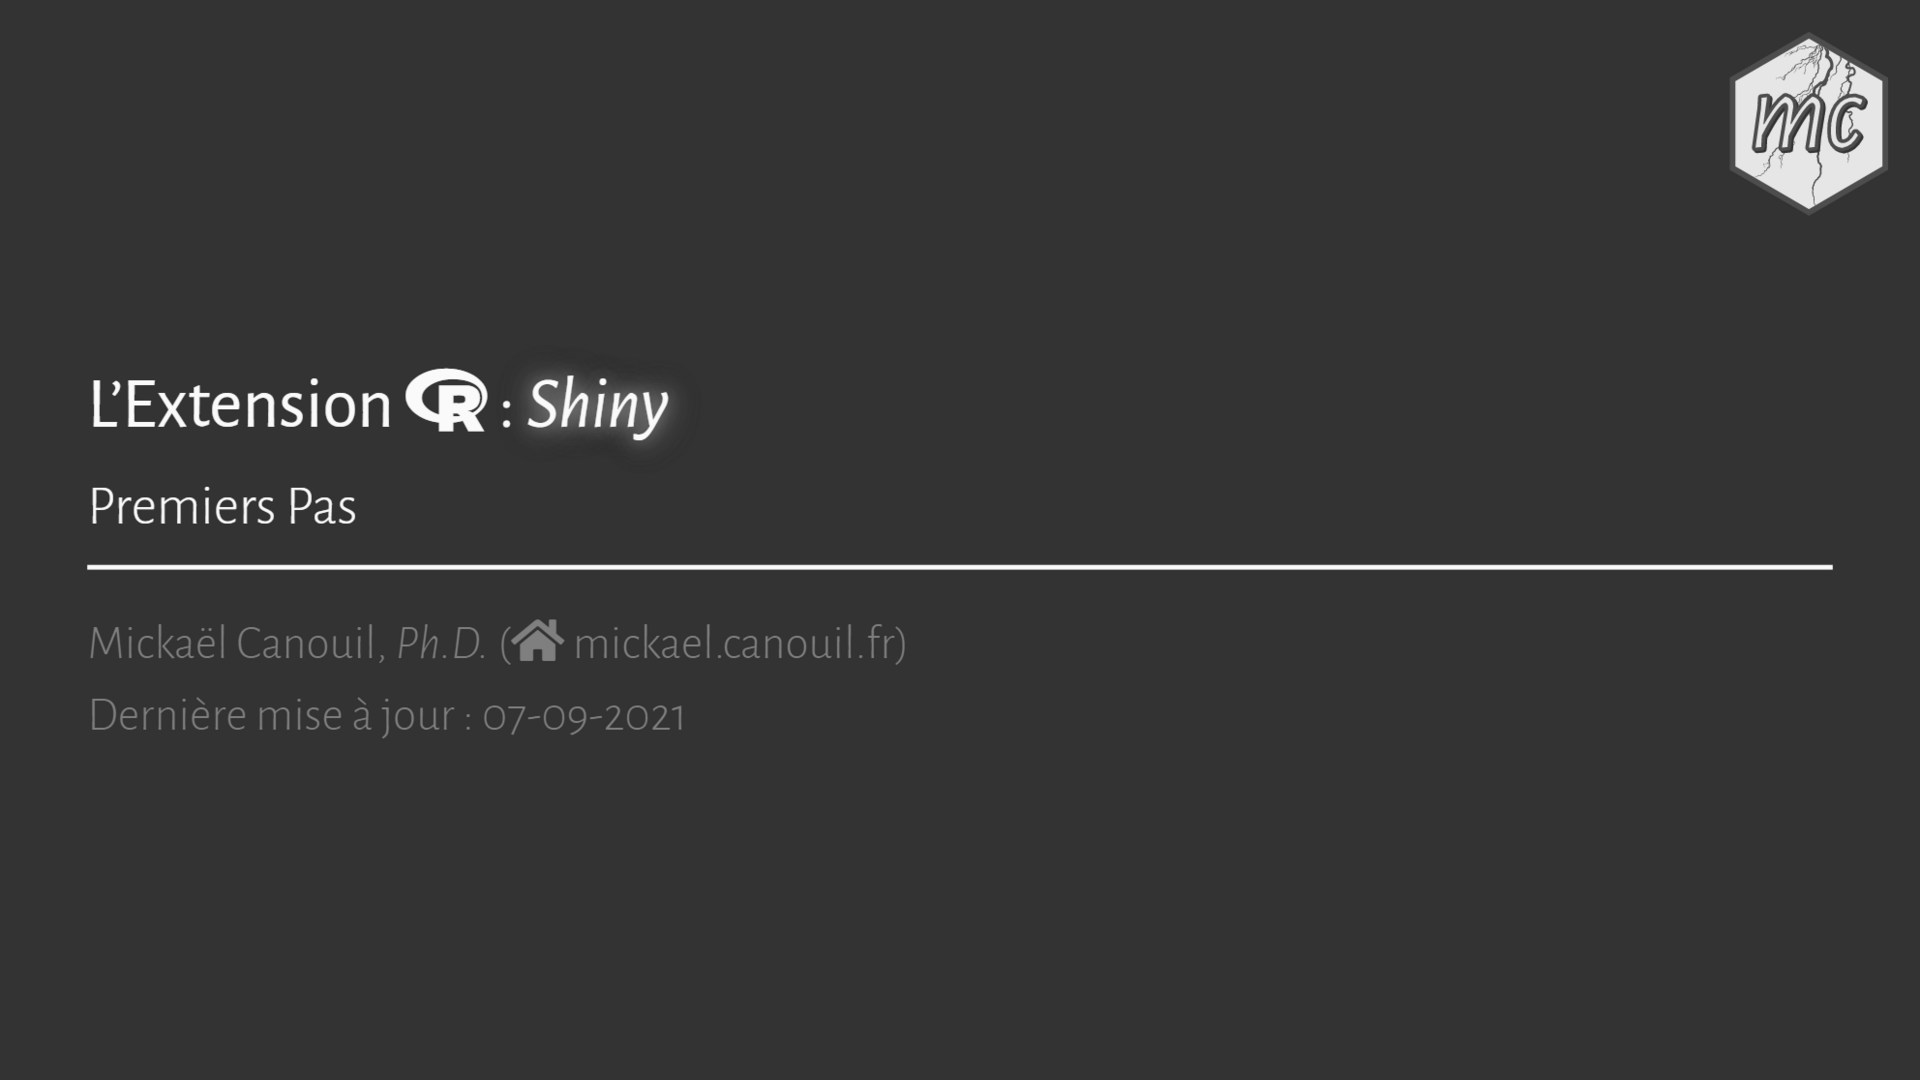
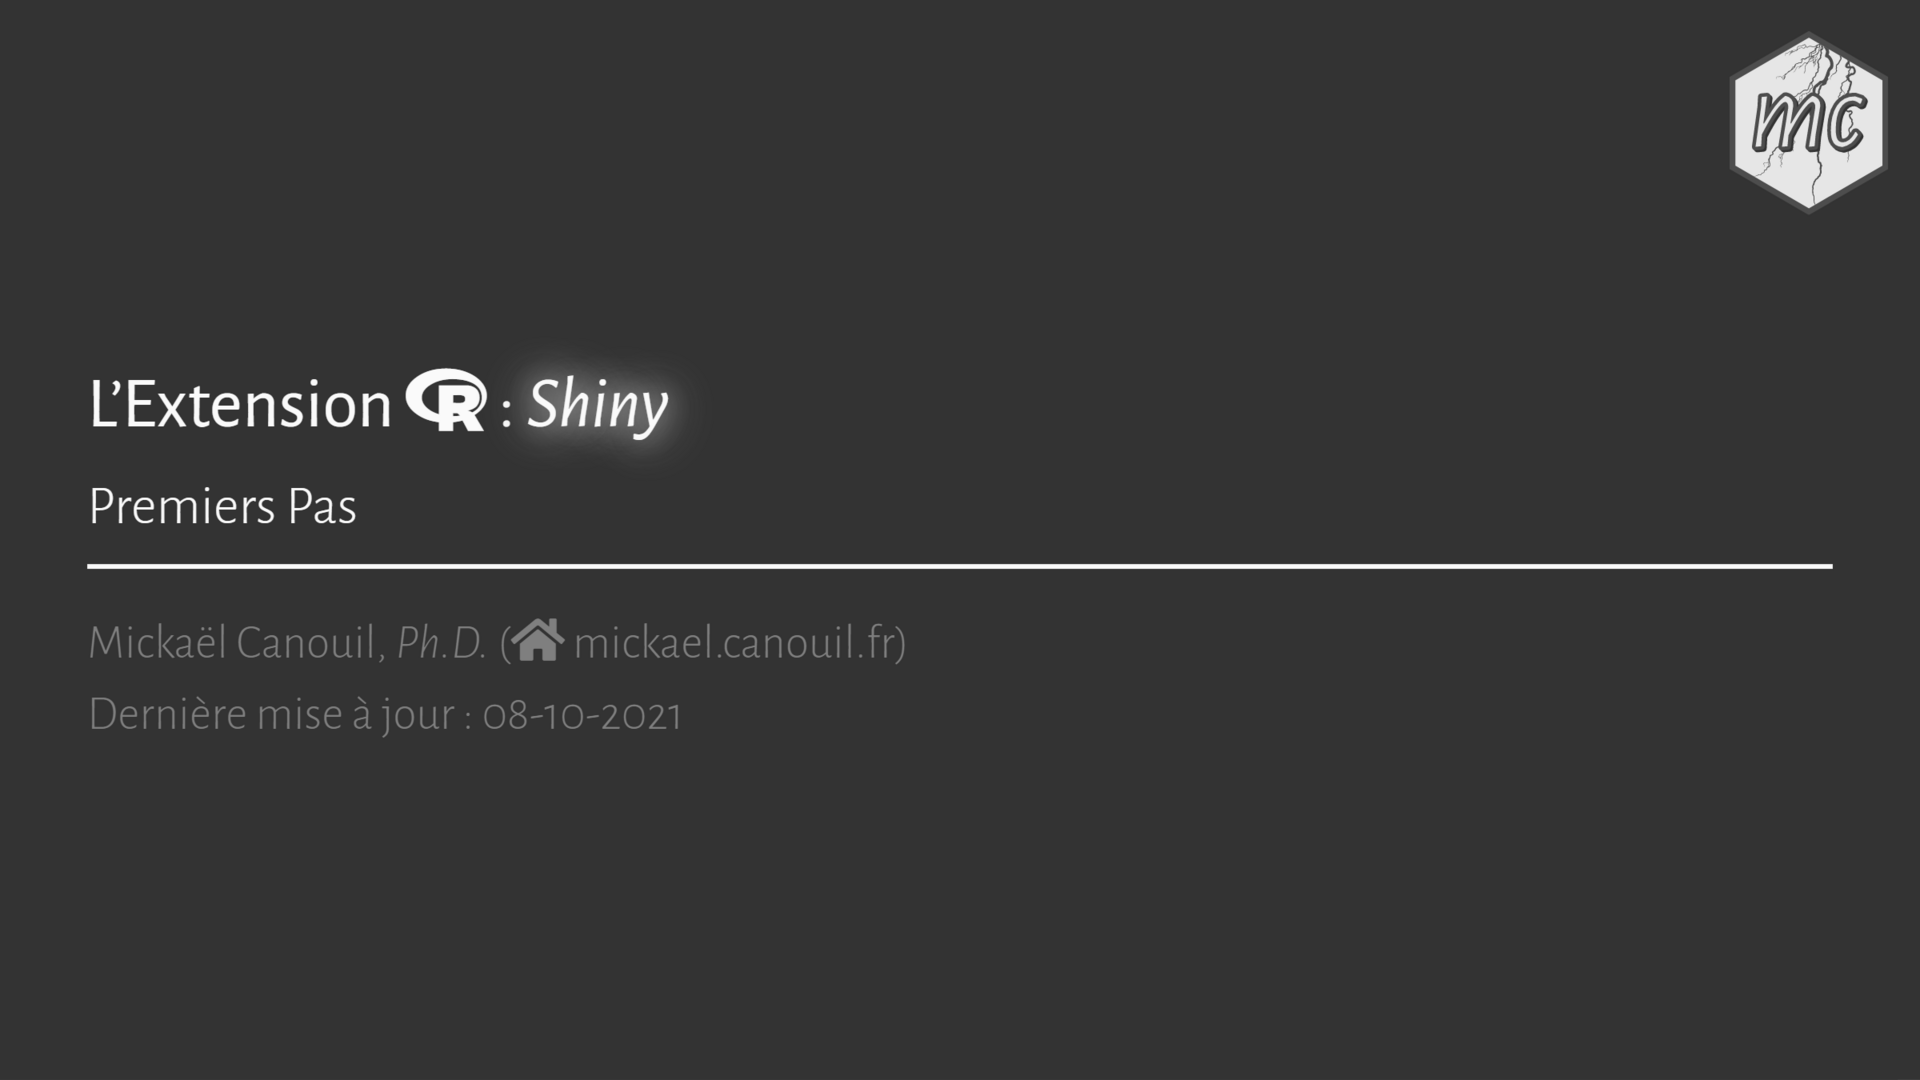
update projects

Changed region(s): [[0.9062, 0.0306, 0.9688, 0.1528], [0.25, 0.6417, 0.3438, 0.6722], [0.0938, 0.3667, 0.125, 0.3972]]

diff --git a/content/project/radvanced/index.md b/content/project/radvanced/index.md
@@ -2,7 +2,7 @@
 title: "R Advanced (French)"
 summary: "A 6-hours workshop/course on objects and types in R."
 
-date: "2020-11-09T00:00:00Z"
+date: "2021-10-07T00:00:00Z"
 
 image:
   # caption: ""
@@ -43,7 +43,7 @@ external_link: "https://github.com/mcanouil/radvanced"
 
 <center>
 <div class="xaringanslides" style="min-width:300px;margin:1em auto;">
-  <iframe src="https://m.canouil.fr/radvanced" width="560" height="315" style="border:2px solid currentColor;" loading="lazy" allowfullscreen></iframe>
+  <iframe src="https://m.canouil.fr/radvanced/" width="560" height="315" style="border:2px solid currentColor;" loading="lazy" allowfullscreen></iframe>
   <script>fitvids(".xaringanslides", {players: "iframe"});</script>
 </div>
 </center>

diff --git a/content/project/rshiny/index.md b/content/project/rshiny/index.md
@@ -2,7 +2,7 @@
 title: "Shiny: First Steps (French)"
 summary: "A one-day workshop on the R package shiny."
 
-date: "2019-07-25T00:00:00Z"
+date: "2021-10-08T00:00:00Z"
 
 image:
   # caption: ""
